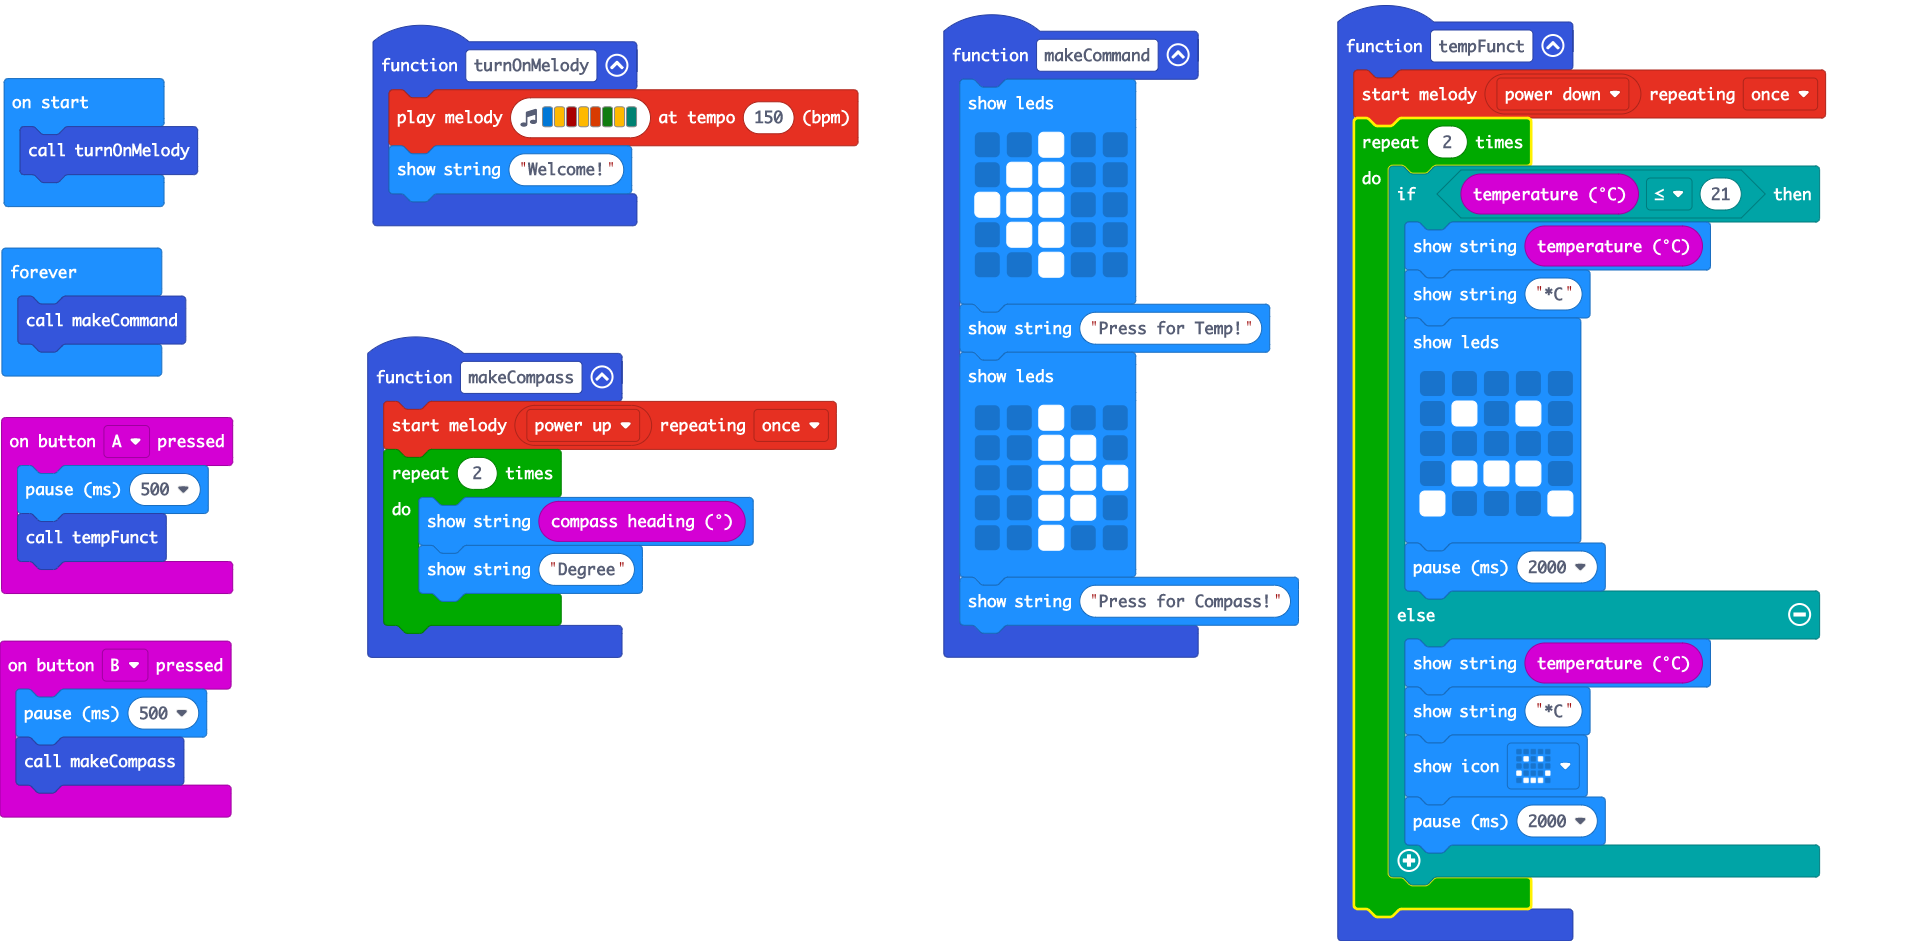
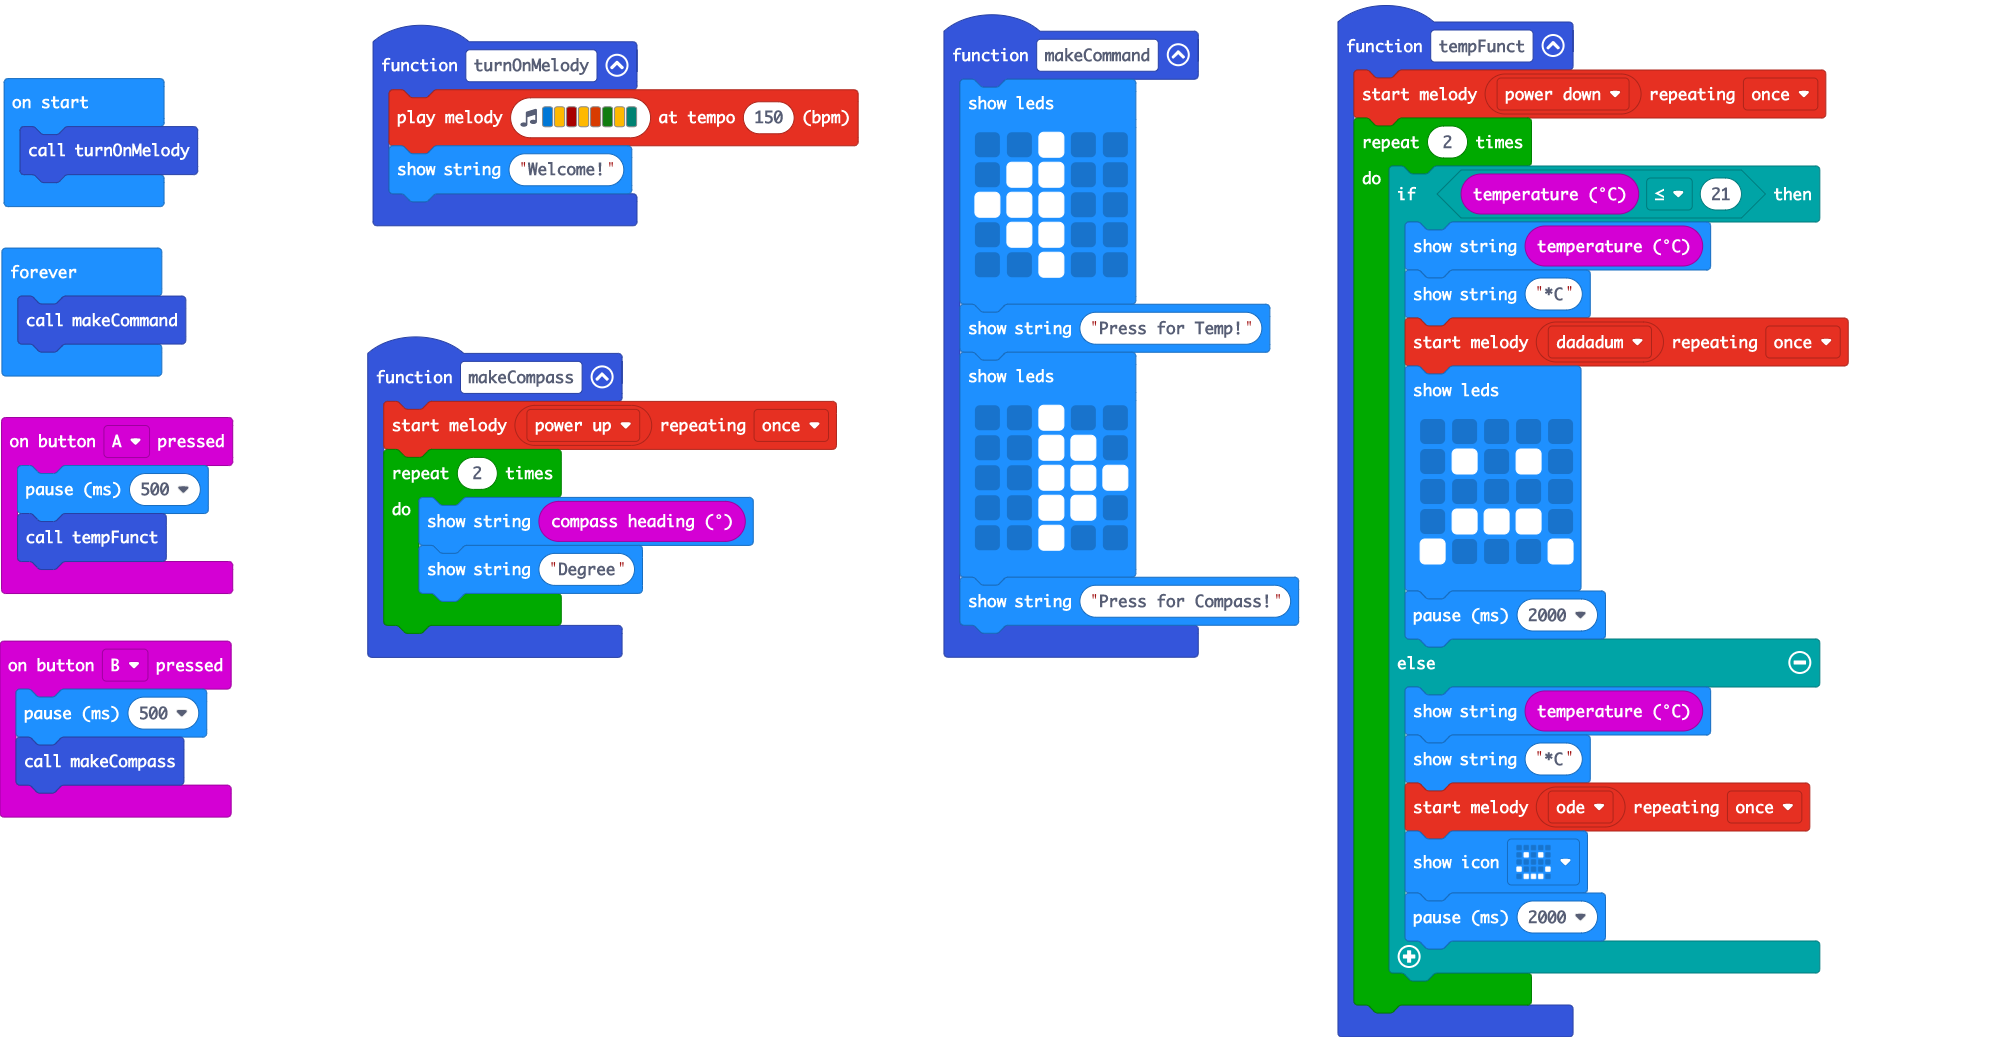
Added Music to Temp

diff --git a/main.ts b/main.ts
@@ -37,6 +37,7 @@ function tempFunct () {
         if (input.temperature() <= 21) {
             basic.showString("" + (input.temperature()))
             basic.showString("*C")
+            music.startMelody(music.builtInMelody(Melodies.Dadadadum), MelodyOptions.Once)
             basic.showLeds(`
                 . . . . .
                 . # . # .
@@ -48,6 +49,7 @@ function tempFunct () {
         } else {
             basic.showString("" + (input.temperature()))
             basic.showString("*C")
+            music.startMelody(music.builtInMelody(Melodies.Ode), MelodyOptions.Once)
             basic.showIcon(IconNames.Happy)
             basic.pause(2000)
         }
